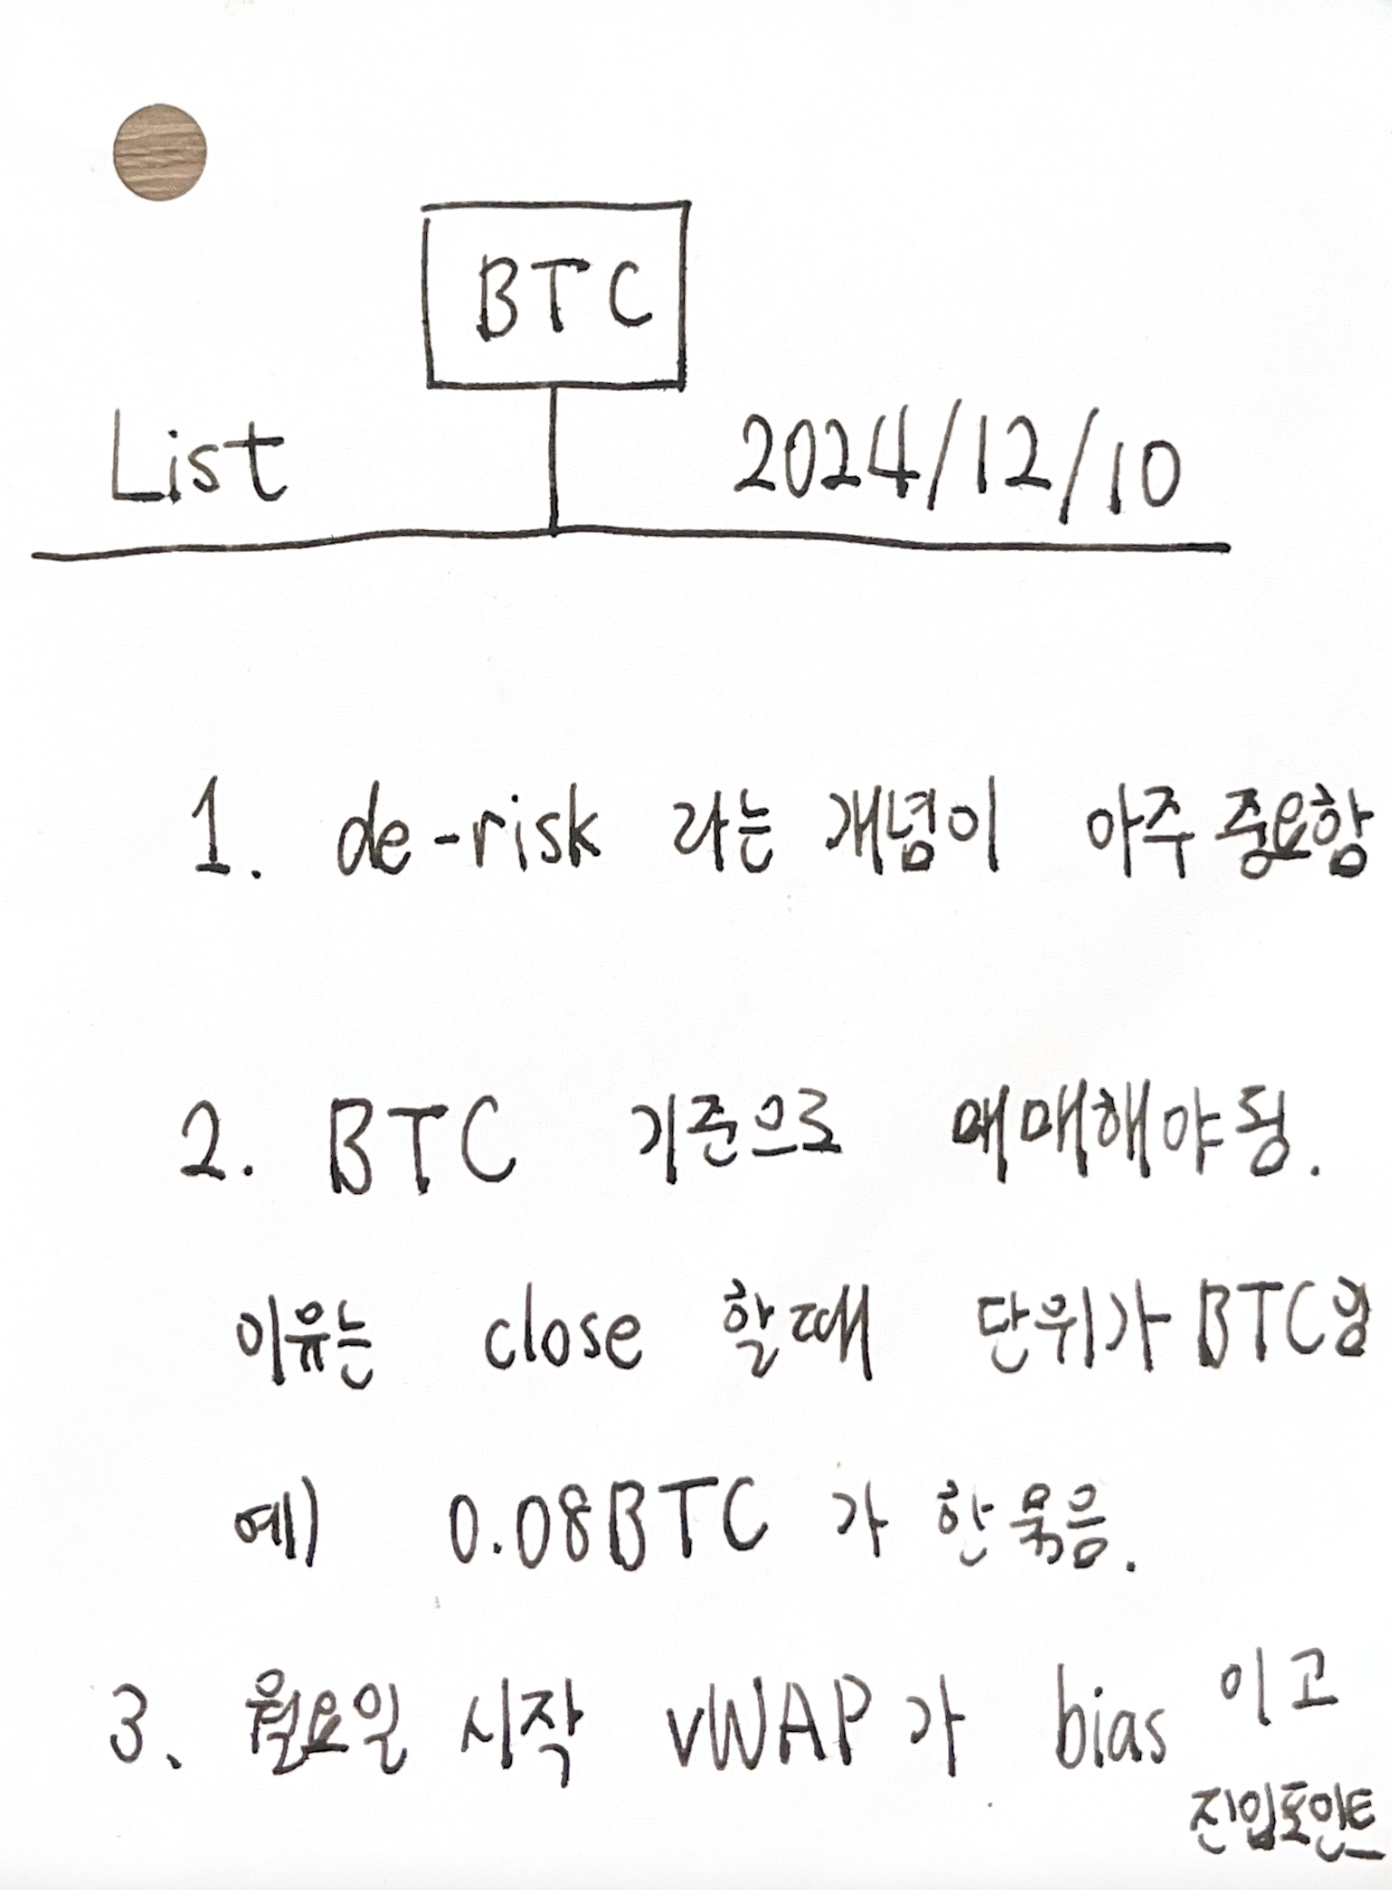
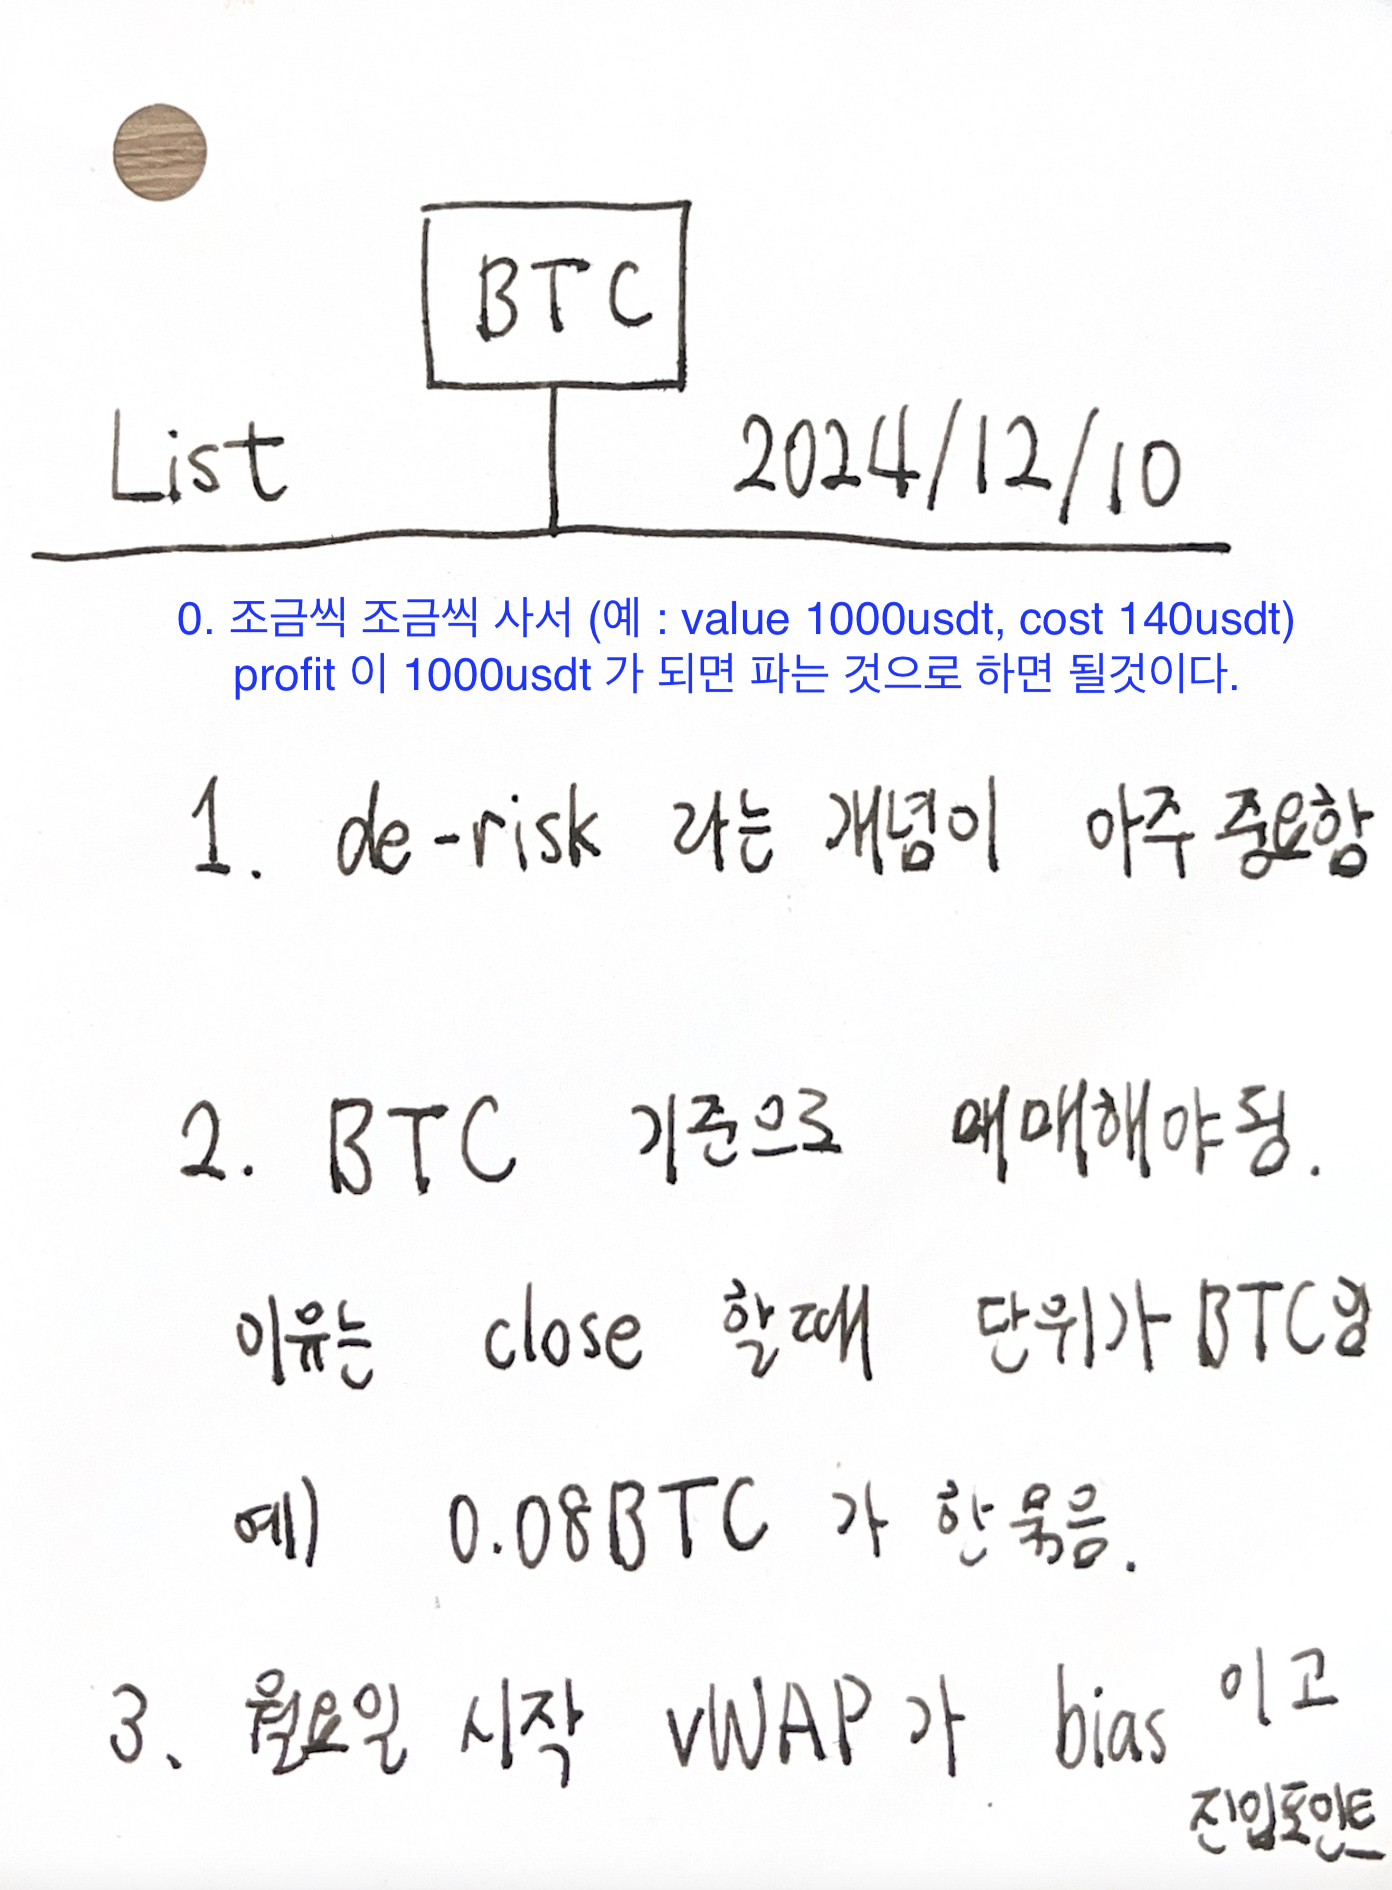
“update”

Changed region(s): [[0.1236, 0.3122, 0.9267, 0.3746]]

diff --git a/_posts/2024/2024-12-30-Dec5-Mon.md b/_posts/2024/2024-12-30-Dec5-Mon.md
@@ -12,6 +12,8 @@ duration: "2024.Dec.30"
 [Mon bond](/todo/images/bond-2024-12-30.png)      
 [Mon cal](/todo/images/cal-2024-12-30.png)    
 [Mon narrative](/todo/images/narrative-2024-12-30.jpeg)     
+[6h Mon BTC](/todo/images/BTC-2024-12-30.png)     
+[4h Mon SOL](/todo/images/SOL-2024-12-30.png)     
 
 
 

diff --git a/_posts/2024/2024-12-31-Dec5-Tue.md b/_posts/2024/2024-12-31-Dec5-Tue.md
@@ -1,0 +1,16 @@
+---
+type: "coin"
+heading : "Dec5 Tue"
+duration: "2024.Dec.31"
+
+
+---
+ 
+
+
+[6h Tue BTC](/todo/images/BTC-2024-12-31.png)     
+[4h Tue SOL](/todo/images/SOL-2024-12-31.png)     
+
+
+
+
